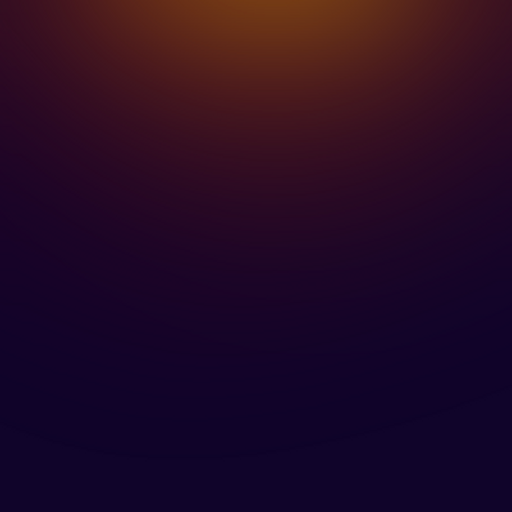
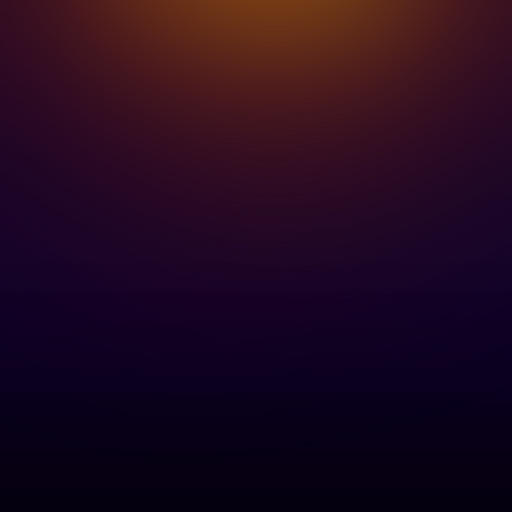
Completed new background

Changed region(s): [[0.0, 0.9375, 1.0, 1.0]]

diff --git a/galacticum/src/de/myreality/galacticum/screens/MenuScreen.java b/galacticum/src/de/myreality/galacticum/screens/MenuScreen.java
@@ -75,7 +75,7 @@ public abstract class MenuScreen implements Screen {
 	
 	private TweenManager tweenManager;
 	
-	private Sprite background, earth;
+	private Sprite background, earth, earthOverlay;
 	
 	private Label lblVersion, lblCopyright;
 	
@@ -131,11 +131,16 @@ public abstract class MenuScreen implements Screen {
 			 .start(tweenManager);
 		
 		earth.setColor(1f, 1f, 1f, from);
-		
+		earthOverlay.setColor(1f, 1f, 1f, from);
 		Tween.to(earth, SpriteTween.ALPHA, FADE_IN_TIME)
 			 .target(to)
 			 .ease(TweenEquations.easeInOutCubic)
 			 .start(tweenManager);
+		
+		Tween.to(earthOverlay, SpriteTween.ALPHA, FADE_IN_TIME)
+		 .target(to)
+		 .ease(TweenEquations.easeInOutCubic)
+		 .start(tweenManager);
 	}
 
 	// ===========================================================
@@ -152,7 +157,10 @@ public abstract class MenuScreen implements Screen {
 
 		Gdx.gl.glClearColor(0f, 0f, 0f, 1f);
 		Gdx.gl.glClear(GL11.GL_COLOR_BUFFER_BIT);
-
+		
+		// Rotate the earth
+		earth.setOrigin(earth.getWidth() / 2, earth.getHeight() / 2);
+		earth.rotate(delta * 3.0f);
 		tweenManager.update(delta);
 		stage.act(delta);
 
@@ -183,6 +191,7 @@ public abstract class MenuScreen implements Screen {
 		batch.begin();
 			background.draw(batch);
 			earth.draw(batch);
+			earthOverlay.draw(batch);
 		batch.end();
 		targetA.end();		
 		batch.flush();
@@ -260,8 +269,10 @@ public abstract class MenuScreen implements Screen {
 		tweenManager = new TweenManager();
 		background = new Sprite(Resources.TEXTURE_MENU_BACKGROUND);
 		earth = new Sprite(Resources.TEXTURE_EARTH);
+		earthOverlay = new Sprite(Resources.TEXTURE_EARTH_OVERLAY);
 		background.flip(false, true);
 		earth.flip(false, true);
+		earthOverlay.flip(false, true);
 		camera = new OrthographicCamera();
 		
 		FileHandle blurVertex = Gdx.files.internal("shaders/blur.vert");
@@ -355,9 +366,10 @@ public abstract class MenuScreen implements Screen {
 		float earthWidth = width - width * (PADDING * 0.6f);
 		float earthHeight = earth.getHeight() * (earthWidth / earth.getWidth());
 		float earthX = width / 2 - earthWidth / 2;
-		float earthY = height - earthHeight;		
+		float earthY = height + -earthHeight / 1.5f;		
 		
 		earth.setBounds(earthX, earthY, earthWidth, earthHeight);
+		earthOverlay.setBounds(earthX, earthY, earthWidth, earthHeight);
 	}
 
 	// ===========================================================

diff --git a/galacticum/src/de/myreality/galacticum/Resources.java b/galacticum/src/de/myreality/galacticum/Resources.java
@@ -81,7 +81,9 @@ public final class Resources {
 	
 	public static Texture TEXTURE_BOX;
 	
-	public static Texture TEXTURE_EARTH;
+	public static Texture TEXTURE_EARTH;	
+
+	public static Texture TEXTURE_EARTH_OVERLAY;
 	
 	public static void loadTextures() {		
 		unloadTextures();		
@@ -96,6 +98,7 @@ public final class Resources {
 		TEXTURE_PLANET = new Texture(Gdx.files.internal("images/planet.png"));
 		TEXTURE_GRADIENT = new Texture(Gdx.files.internal("images/black-gradient.png"));
 		TEXTURE_EARTH = new Texture(Gdx.files.internal("images/backgrounds/earth.png"));
+		TEXTURE_EARTH_OVERLAY = new Texture(Gdx.files.internal("images/backgrounds/earth_shine.png"));
 	}
 	
 	public static void unloadTextures() {
@@ -133,6 +136,10 @@ public final class Resources {
 		
 		if (TEXTURE_EARTH != null) {
 			TEXTURE_EARTH.dispose();
+		}
+		
+		if (TEXTURE_EARTH_OVERLAY != null) {
+			TEXTURE_EARTH_OVERLAY.dispose();
 		}
 	}
 	
